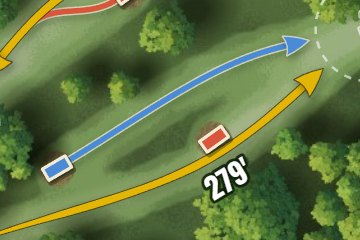
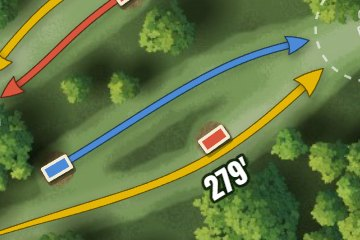
After a second critique: a line joins another only where it comes in along it, else it goes its own way to the basket; no merge bends; short last legs run on to the basket; labels keep off arrowheads
Each painted line's edge is a darker shade of its own color. An open arrowhead
is thinner. A line with no arrowhead ends round. The panel lists what is drawn
first, then weight and arrowheads; Bends is Smoothed or As plotted.

Changed region(s): [[0.1833, 0.1458, 0.8556, 0.7], [0.0, 0.0, 0.3361, 0.4083]]

diff --git a/src/lib/mapSvg.ts b/src/lib/mapSvg.ts
@@ -622,14 +622,18 @@ export const renderMapLayers = (doc: CourseDoc, view: MapView, layers: MapLayers
   const drawnLines: { own: string; path: P[]; half: number; arrow?: boolean }[] = [];
   // (every line's width and its arrowhead's size, times the look's own)
   const weight = s.lineWeight ?? 1, headSize = s.arrowSize ?? 1, classicLook = look === "classic";
-  // (how light a color is, 0 to 1: a line's edge is dark round a light line and light round a dark one)
-  const lightness = (hex: string) => {
+  // (a painted line's edge: a darker shade of its own color, the same for every line; Classic's by
+  // hand as it was)
+  const darker = (hex: string, by: number) => {
     const m = /^#([0-9a-f]{6})$/i.exec(hex);
-    if (!m) return 1;
-    const v = parseInt(m[1], 16);
-    return (0.2126 * (v >> 16) + 0.7152 * ((v >> 8) & 255) + 0.0722 * (v & 255)) / 255;
+    if (!m) return KEY;
+    const v = parseInt(m[1], 16), c = (x: number) => Math.round(x * by).toString(16).padStart(2, "0");
+    return `#${c(v >> 16)}${c((v >> 8) & 255)}${c(v & 255)}`;
   };
-  const softEdge = (color: string) => (classicLook || lightness(color) > 0.55 ? { c: KEY, o: 0.7, w: 0.9 } : { c: CREAM, o: 0.72, w: 1.2 });
+  const softEdge = (color: string) => (classicLook ? { c: KEY, o: 0.7, w: 0.9 } : { c: darker(color, 0.4), o: 0.9, w: 1 });
+  const turn = (from: number, to: number) => Math.atan2(Math.sin(to - from), Math.cos(to - from));
+  /** Where the painted looks' arrowheads lie (plan ft), for the labels to keep off. */
+  const headsAt: { p: P; r: number }[] = [];
   /** A line's bends swept wider, as a disc flies them: smoothed along its length (about 14 ft each
    * way), every spot kept within `most` ft of where it was plotted, so it stays on its fairway;
    * its ends where they were. In feet, so the same at every scale. */
@@ -663,11 +667,18 @@ export const renderMapLayers = (doc: CourseDoc, view: MapView, layers: MapLayers
     };
     let seed = 0;
     // A painted stroke: a ribbon narrow at the tee, full along, the brush's width wavering a little
-    const ribbon = (line: P[], w: number) => {
+    const ribbon = (line: P[], w: number, round = false) => {
       const d = densify(line, px(2.5)), len = pathLength(d) || 1, s0 = ++seed * 1.7;
       const wAt = (t: number) => w * (0.45 + 0.55 * Math.min(1, t / 0.2)) * (1 + 0.05 * Math.sin((t * len) / px(7) + s0) + 0.035 * Math.sin((t * len) / px(19) + s0 * 2));
       const L = offsetPath(d, t => wAt(t) / 2), R = offsetPath(d, t => -wAt(t) / 2).reverse();
-      return `M${[...L, ...R].map(q => `${n(q.x)} ${n(q.y)}`).join("L")}Z`;
+      // (round at its far end: from its one side round the front to the other)
+      const cap: P[] = [];
+      if (round && d.length > 1) {
+        const E = d[d.length - 1], q = d[d.length - 2], ahead = Math.atan2(E.y - q.y, E.x - q.x), l = L[L.length - 1];
+        const a0 = Math.atan2(l.y - E.y, l.x - E.x), r = dist(l, E), half = turn(a0, ahead);
+        for (let i = 1; i < 8; i++) cap.push({ x: E.x + Math.cos(a0 + (half * 2 * i) / 8) * r, y: E.y + Math.sin(a0 + (half * 2 * i) / 8) * r });
+      }
+      return `M${[...L, ...cap, ...R].map(q => `${n(q.x)} ${n(q.y)}`).join("L")}Z`;
     };
     // (a soft shadow under a shape or a stroke, falling as the trees' do)
     const under = (dd: string, w?: number) =>
@@ -692,27 +703,14 @@ export const renderMapLayers = (doc: CourseDoc, view: MapView, layers: MapLayers
     // (where a line stops, from the basket, in the painted looks: every line that comes to the
     // basket, the main one and another tee's own alike, at its putting circle, or by the basket
     // itself where the map says so. Classic's own lines as they did: clear of the main arrowhead)
-    const stop = s.lineEnd === "basket" ? Math.max(8 / k, 6) : short;
-    const ownEnd = classicLook ? Math.max(short, 22 / k) + 8 / k : stop;
+    const byBasket = Math.max(8 / k, 6), stop = s.lineEnd === "basket" ? byBasket : short;
+    // (hole by hole: a hole whose last leg is too short for an arrowhead at the circle runs its lines on to the basket)
+    let atBasket = s.lineEnd === "basket";
+    let ownEnd = classicLook ? Math.max(short, 22 / k) + 8 / k : stop;
     // (how far apart two lines come to the circle for each to have its own arrowhead)
-    const headRoom = (9.5 / k) * Math.sqrt(weight) * headSize * 1.3;
+    const headRoom = (9.5 / k) * Math.sqrt(weight) * headSize * 1.05;
     /** Where a line toward the basket comes to where the lines stop. */
     const arrives = (path: P[]) => pointAlong(path, Math.max(0, pathLength(path) - ownEnd)).point;
-    /** Another tee's line that would come to the circle beside `host`, its arrowhead on that one's:
-     * it joins `host` a little before the circle instead, in one bend, as it would a few steps on. */
-    const mergeBefore = (truth: P[], host: P[], gap: number): { path: P[]; rest: P[] } => {
-      const hostLen = pathLength(host), len = pathLength(truth);
-      const hostAt = Math.max(hostLen * 0.3, hostLen - ownEnd - headRoom * 1.6 - px(6));
-      const lead = Math.max(px(30), Math.min(px(90), gap * 6));
-      const from = Math.max(0, len - (hostLen - hostAt) - lead);
-      const A = pointAlong(truth, from), B = pointAlong(host, hostAt), a = A.point, b = B.point, h = dist(a, b) * 0.4;
-      const c1 = { x: a.x + Math.cos(A.angle) * h, y: a.y + Math.sin(A.angle) * h }, c2 = { x: b.x - Math.cos(B.angle) * h, y: b.y - Math.sin(B.angle) * h };
-      const bend = Array.from({ length: 32 }, (_, i) => {
-        const t = (i + 1) / 32, u = 1 - t;
-        return { x: u * u * u * a.x + 3 * u * u * t * c1.x + 3 * u * t * t * c2.x + t * t * t * b.x, y: u * u * u * a.y + 3 * u * u * t * c1.y + 3 * u * t * t * c2.y + t * t * t * b.y };
-      });
-      return { path: [...(from > 0 ? trimPath(truth, 0, from) : [a]), ...bend], rest: trimPath(host, hostAt, hostLen) };
-    };
     // A line of its own, drawn to end aimed at the basket: where the line it plays still bends
     // inside the putting circle, its last stretch is bent to come in aimed at the basket, so its
     // arrowhead at the circle points at it.
@@ -724,10 +722,13 @@ export const renderMapLayers = (doc: CourseDoc, view: MapView, layers: MapLayers
       let at = len - ownEnd;
       while (at > len * 0.5 && dist(pointAlong(truth, at).point, basket) < ownEnd) at -= 1 / k;
       if (at < len * 0.5) return truth;
-      const E0 = pointAlong(truth, at), E = to ? { point: to, angle: E0.angle } : E0, want = Math.atan2(basket.y - E.point.y, basket.x - E.point.x);
-      if (!to && Math.abs(Math.atan2(Math.sin(E.angle - want), Math.cos(E.angle - want))) < 0.12) return truth;
+      const E0 = pointAlong(truth, at), E = to ? { point: to, angle: E0.angle } : E0, aim = Math.atan2(basket.y - E.point.y, basket.x - E.point.x);
+      if (!to && Math.abs(Math.atan2(Math.sin(E.angle - aim), Math.cos(E.angle - aim))) < 0.12) return truth;
       // (the bend ends an arrowhead's length before the circle, so the arrowhead lies on a straight run at the basket)
-      const back = Math.min(at * 0.6, px(70)), A = pointAlong(truth, at - back), run = 14 / k;
+      // (fanned out: from farther back, and coming in halfway between its own way there and straight
+      // at the basket, so it's one easy curve, never an S)
+      const back = to ? Math.min(at * 0.85, px(120)) : Math.min(at * 0.6, px(70)), A = pointAlong(truth, at - back), run = to ? 0 : 14 / k;
+      const want = to ? (c => c + turn(c, aim) * 0.5)(Math.atan2(E.point.y - A.point.y, E.point.x - A.point.x)) : aim;
       const a = A.point, b = { x: E.point.x - Math.cos(want) * run, y: E.point.y - Math.sin(want) * run }, h = dist(a, b) * 0.4;
       const c1 = { x: a.x + Math.cos(A.angle) * h, y: a.y + Math.sin(A.angle) * h }, c2 = { x: b.x - Math.cos(want) * h, y: b.y - Math.sin(want) * h };
       const bend = Array.from({ length: 24 }, (_, i) => {
@@ -738,7 +739,8 @@ export const renderMapLayers = (doc: CourseDoc, view: MapView, layers: MapLayers
     };
     /** One line, every setting of it: `main` with its arrowhead and the map's own trims. Its shadow
      * and outline into `unders`, its color into `fills`. */
-    const drawLine = (line: P[], ls0: ReturnType<typeof lineStyleOf>, main: boolean, o: number, basket: P, alone = false) => {
+    // (`tuck`: its end under another line's arrowhead, with none of its own)
+    const drawLine = (line: P[], ls0: ReturnType<typeof lineStyleOf>, main: boolean, o: number, basket: P, alone = false, tuck = false) => {
       let ls = ls0;
       const classic = look === "classic";
       const W = px((main ? (classic ? 2.4 : 3.2) : classic ? 2 : 2.2) * ls.width * weight);
@@ -751,12 +753,14 @@ export const renderMapLayers = (doc: CourseDoc, view: MapView, layers: MapLayers
       const toBasket = main || alone || (!classic && s.linesMeet === "alongside" && dist(line[line.length - 1], basket) < short + px(4));
       // (a line of its own stops at the putting circle, clear of the main line's arrowhead; `aimed` has it come in aimed at the basket)
       // (the painted looks' arrowhead goes with its line's width, a little bigger for it on a thin line)
-      const al = (classic ? (9 / k) * Math.sqrt(ls.width * weight) * (alone ? 0.65 : 1) : (9.5 / k) * Math.sqrt(ls.width * weight) * (main ? 1 : 0.86)) * headSize;
+      const al = (classic ? (9 / k) * Math.sqrt(ls.width * weight) * (alone ? 0.65 : 1) : (9.5 / k) * Math.sqrt(ls.width * weight) * (main ? 1 : 0.78)) * headSize;
       const edge = Math.max(len * 0.5, len - ownEnd);
       // (the classic arrowhead reaches past the spot it's set at: set back, so its tip is where the painted one's is)
-      const tipAt = classic ? (main ? len - Math.max(12 / k, 6) : alone ? edge - al * 0.6 : len) : toBasket ? edge : len;
-      // (how far short of its tip the line itself ends, under its arrowhead)
-      const under0 = headLook === "open" ? 0 : headLook === "triangle" ? al * 0.5 : al * 0.9;
+      // (the painted looks: at where the hole's lines stop; with no arrowhead, right at the basket's mark
+      // where they run on to it; tucked under another's arrowhead, a little back under its wide part)
+      const tipAt = classic ? (main ? len - Math.max(12 / k, 6) : alone ? edge - al * 0.6 : len) : !toBasket ? len : tuck && !atBasket ? edge - al * 0.6 : atBasket && !ls.arrow ? Math.max(len * 0.5, len - 4 / k) : edge;
+      // (how far short of its tip the line itself ends, under its arrowhead; an open one's tip a little short of the circle)
+      const under0 = headLook === "open" ? 2 / k + W * 0.3 : headLook === "triangle" ? al * 0.5 : al * 0.9;
       const body = main ? trimPath(line, 6 / k, classic ? len - Math.max(2.2 / k * 6, 8) : ls.arrow ? tipAt - under0 : tipAt) : toBasket ? trimPath(line, 0, ls.arrow ? tipAt - (classic ? 1.2 / k : under0) : tipAt) : line;
       if (body.length < 2) return;
       const dd = pathD(densify(body, px(3)));
@@ -778,17 +782,19 @@ export const renderMapLayers = (doc: CourseDoc, view: MapView, layers: MapLayers
         if (!painted) stroke(soft.c, W + px(soft.w), soft.o, dash);
       } else if (ls.outline === "dark") stroke(pal.lineCasing, W + px(main ? 2.2 : 1.8), 1, dash);
       if (!whole) { sink.push(`</g>`); sink = fills; sink.push(`<g opacity="${n(o * ls.opacity)}">`); }
-      if (painted) sink.push(`<path d="${ribbon(body, W)}" fill="${ls.color}"${ls.outline === "soft" ? ` stroke="${soft.c}" stroke-opacity="${soft.o}" stroke-width="${n(px(soft.w * 0.45))}" stroke-linejoin="round"` : ""}/>`);
+      if (painted) sink.push(`<path d="${ribbon(body, W, !ls.arrow)}" fill="${ls.color}"${ls.outline === "soft" ? ` stroke="${soft.c}" stroke-opacity="${soft.o}" stroke-width="${n(px(soft.w * 0.45))}" stroke-linejoin="round"` : ""}/>`);
       else stroke(ls.color, W, 1, dash);
+      // (the labels keep off a painted look's arrowhead)
+      if (ls.arrow && !classic) headsAt.push({ p: pointAlong(line, Math.max(0, tipAt - al * 0.45)).point, r: al * 0.7 });
       if (ls.arrow) {
         if (headLook === "open") {
           // (two strokes from the tip, as a line arrow)
-          const end = pointAlong(line, Math.max(0, tipAt)), tip = end.point, a = end.angle;
+          const end = pointAlong(line, Math.max(0, tipAt - 2 / k)), tip = end.point, a = end.angle, hw = W * 0.75;
           const wing = (sg: number) => ({ x: tip.x - Math.cos(a - 0.52 * sg) * al * 1.05, y: tip.y - Math.sin(a - 0.52 * sg) * al * 1.05 });
           const l = wing(1), r = wing(-1), hd = `M${n(l.x)} ${n(l.y)}L${n(tip.x)} ${n(tip.y)}L${n(r.x)} ${n(r.y)}`;
-          if (ls.shadow) under(hd, W + px(1.8));
-          if (ls.outline !== "none") sink.push(`<path d="${hd}" fill="none" stroke="${ls.outline === "dark" ? pal.lineCasing : soft.c}" stroke-opacity="${ls.outline === "dark" ? 1 : soft.o}" stroke-width="${n(W + px(ls.outline === "dark" ? 2 : soft.w))}" stroke-linecap="round" stroke-linejoin="round"/>`);
-          sink.push(`<path d="${hd}" fill="none" stroke="${ls.color}" stroke-width="${n(W)}" stroke-linecap="round" stroke-linejoin="round"/>`);
+          if (ls.shadow) under(hd, hw + px(1.8));
+          if (ls.outline !== "none") sink.push(`<path d="${hd}" fill="none" stroke="${ls.outline === "dark" ? pal.lineCasing : soft.c}" stroke-opacity="${ls.outline === "dark" ? 1 : soft.o}" stroke-width="${n(hw + px(ls.outline === "dark" ? 2 : soft.w))}" stroke-linecap="round" stroke-linejoin="round"/>`);
+          sink.push(`<path d="${hd}" fill="none" stroke="${ls.color}" stroke-width="${n(hw)}" stroke-linecap="round" stroke-linejoin="round"/>`);
         } else if (headLook === "triangle") {
           // (Classic's reaches past the spot it's set at; in the painted looks its tip is where the line stops)
           const end = pointAlong(line, Math.max(0, classic ? tipAt : tipAt - al * 0.6)), tip = end.point, a = end.angle;
@@ -798,7 +804,7 @@ export const renderMapLayers = (doc: CourseDoc, view: MapView, layers: MapLayers
             { x: tip.x - Math.cos(a + 0.45) * al, y: tip.y - Math.sin(a + 0.45) * al }
           ];
           if (ls.shadow && !classic) under(`M${pts(head).split(" ").join("L")}Z`);
-          sink.push(`<polygon points="${pts(head)}" fill="${ls.color}"${ls.outline === "none" ? "" : ls.outline === "soft" ? ` stroke="${soft.c}" stroke-opacity="${soft.o}" stroke-width="${n(px(soft.w * 0.5))}" stroke-linejoin="round"` : ` stroke="${pal.lineCasing}" stroke-width="${n(px(1))}"`}/>`);
+          sink.push(`<polygon points="${pts(head)}" fill="${ls.color}"${ls.outline === "none" ? "" : ls.outline === "soft" && !classic ? ` stroke="${soft.c}" stroke-opacity="${soft.o}" stroke-width="${n(px(soft.w * 0.5))}" stroke-linejoin="round"` : ` stroke="${pal.lineCasing}" stroke-width="${n(px(1))}"`}/>`);
         } else leaf(line, ls.color, al, tipAt, ls);
       }
       sink.push(`</g>`);
@@ -863,6 +869,12 @@ export const renderMapLayers = (doc: CourseDoc, view: MapView, layers: MapLayers
       const A = truth[a], n1 = truth[Math.min(last, a + 1)], n0 = truth[Math.max(0, a - 1)];
       const ta0 = { x: n1.x - n0.x, y: n1.y - n0.y }, tl = Math.hypot(ta0.x, ta0.y) || 1, ta = { x: ta0.x / tl, y: ta0.y / tl };
       const tb = { x: Math.cos(B.angle), y: Math.sin(B.angle) }, b = B.point, h = dist(A, b) * 0.4;
+      // (the painted looks: only where it comes in along the line, within 22 degrees of its own way and
+      // of the line's; a line that would have to turn to it goes its own way to the basket, as it plays)
+      if (!classicLook) {
+        const chord = Math.atan2(b.y - A.y, b.x - A.x);
+        if (Math.abs(turn(Math.atan2(ta.y, ta.x), chord)) > 0.38 || Math.abs(turn(chord, B.angle)) > 0.38) return { path: truth, alone: true };
+      }
       const c1 = { x: A.x + ta.x * h, y: A.y + ta.y * h }, c2 = { x: b.x - tb.x * h, y: b.y - tb.y * h };
       const bend = Array.from({ length: 32 }, (_, i) => {
         const t = (i + 1) / 32, u = 1 - t;
@@ -878,13 +890,23 @@ export const renderMapLayers = (doc: CourseDoc, view: MapView, layers: MapLayers
       const hole = doc.holes.find(h => h.id === st.holeId)!;
       const o = dim(st.holeId);
       const basket = st.line[st.line.length - 1];
+      const mainTee = doc.items.find(i => i.id === st.teeId) as TeeItem | undefined;
+      const mainLs = lineStyleOf(s, mainTee?.level ?? "blue", true, multi);
       // (in the painted looks the main line too stops where the lines stop, come in aimed at the basket)
       // (and its bends swept wide, within a third of its fairway's width of where they were plotted)
       const sweep = classicLook || s.lineBends === "plotted" ? 0 : Math.max(5, Math.min(12, (hole.fairway ? hole.fairwayWidth : 30) * 0.3));
-      const plotted = smoothPath(st.line, 12);
-      const line = classicLook ? plotted : aimed(swept(plotted, sweep), basket);
-      const mainTee = doc.items.find(i => i.id === st.teeId) as TeeItem | undefined;
-      const mainLs = lineStyleOf(s, mainTee?.level ?? "blue", true, multi);
+      const plotted = smoothPath(st.line, 12), bent = classicLook ? plotted : swept(plotted, sweep);
+      atBasket = s.lineEnd === "basket";
+      if (!classicLook) {
+        ownEnd = stop;
+        // (its last leg, from where the line last turns to the circle, too short to hold an arrowhead:
+        // this hole's lines run on to the basket, where the arrowhead has the room)
+        const L = pathLength(bent), last = pointAlong(bent, Math.max(0, L - 1 / k)).angle, headLen = (9.5 / k) * Math.sqrt(mainLs.width * weight) * headSize;
+        let back = ownEnd;
+        while (back < L * 0.6 && Math.abs(turn(pointAlong(bent, L - back).angle, last)) < 0.5) back += 2 / k;
+        if (!atBasket && back < L * 0.6 && back - ownEnd < headLen * 2.2) { atBasket = true; ownEnd = byBasket; }
+      }
+      const line = classicLook ? plotted : aimed(bent, basket);
       unders = []; fills = [];
       const mainW = px((look === "classic" ? 2.4 : 3.2) * mainLs.width * weight);
       if (!mainTee?.noLine) drawnLines.push({ own: `dist:${st.holeId}`, path: line, half: mainW / 2, arrow: mainLs.arrow });
@@ -931,20 +953,19 @@ export const renderMapLayers = (doc: CourseDoc, view: MapView, layers: MapLayers
           alone = j.alone;
           const mine = alone ? swept(j.path, sweep) : j.path;
           along = alone ? aimed(mine, basket) : mine;
-          let rest = j.rest;
+          const rest = j.rest;
           // (its own way to the basket, but coming to the circle beside a line already there, the two
           // arrowheads on each other: it joins that line just before the circle)
           // Where the lines run on to the basket they meet there, and only the first has the arrowhead.
-          // Nearly on that line (a few px): it joins it just before the circle. Otherwise it comes
-          // to the circle a little round from it, each with room for its own arrowhead.
+          // Coming to the circle where another does (within half an arrowhead): its end tucked under
+          // that one's arrowhead. Otherwise a little round from it, each with room for its own.
           if (alone && !classicLook) {
             const E = arrives(along), by = trunks.map(t => ({ t, at: arrives(t), d: dist(arrives(t), E) })).sort((p, q) => p.d - q.d)[0];
             if (by && by.d < headRoom) {
-              if (s.lineEnd === "basket") bare = true;
-              else if (by.d < px(8)) {
-                const m = mergeBefore(mine, by.t, by.d);
-                along = m.path; rest = m.rest; alone = false;
-                joins.push(along[along.length - 1]);
+              if (atBasket) bare = true;
+              else if (by.d < headRoom * 0.55) {
+                // (it comes in where that line does: its end under that line's arrowhead, on its own way there)
+                bare = true;
               } else {
                 const a0 = Math.atan2(E.y - basket.y, E.x - basket.x), ah = Math.atan2(by.at.y - basket.y, by.at.x - basket.x);
                 const off = Math.atan2(Math.sin(a0 - ah), Math.cos(a0 - ah)), want = 2 * Math.asin(Math.min(0.7, headRoom / (2 * ownEnd)));
@@ -959,7 +980,7 @@ export const renderMapLayers = (doc: CourseDoc, view: MapView, layers: MapLayers
         drawnLines.push({ own: `dist:${st.holeId}:${tee.id}`, path: along, half: px((look === "classic" ? 2 : 2.2) * ls.width * weight) / 2, arrow: alone && !bare && ls.arrow });
         // (its own way to the basket: its own arrowhead; one that joins a line has none, unless asked for)
         const joined = { ...ls, arrow: s.lineStyles?.[tee.level]?.arrow === true };
-        if (alone) drawLine(along, bare ? { ...ls, arrow: false } : ls, false, o, basket, true);
+        if (alone) drawLine(along, bare ? { ...ls, arrow: false } : ls, false, o, basket, true, bare);
         else if (look === "classic" && !s.lineStyles?.[tee.level] && s.linesMeet !== "alongside" && weight === 1) {
           const c = TEE_LEVELS[tee.level].color === "#f8fafc" ? "#eef0f2" : TEE_LEVELS[tee.level].color;
           (o < 1 ? fills : unders).push(`<path d="${pathD(along)}" fill="none" stroke="${pal.lineCasing}" stroke-width="${n(px(3.8))}" stroke-linecap="round" stroke-linejoin="round" opacity="${o}"/>`);
@@ -1040,6 +1061,7 @@ export const renderMapLayers = (doc: CourseDoc, view: MapView, layers: MapLayers
   // circles in the map's pixels (`thin`: a ring or a path, which a label that has to move keeps off;
   // one lying on it where it always went stays, as on maps made before):
   const obs: { x: number; y: number; r: number; of?: string; thin?: boolean }[] = [];
+  for (const h of headsAt) { const q = toScreen(h.p); obs.push({ x: q.x, y: q.y, r: h.r * k }); }
   for (const d of drawnLines) {
     // (wider at its arrowhead)
     const dense = densify(d.path, 3 / k), head = 4.5 * Math.max(1, ts * 0.8);
@@ -1047,7 +1069,7 @@ export const renderMapLayers = (doc: CourseDoc, view: MapView, layers: MapLayers
     dense.forEach((q, i) => {
       if (i) left -= dist(dense[i - 1], q);
       const p = toScreen(q);
-      obs.push({ x: p.x, y: p.y, r: d.arrow && left < 24 / k ? Math.max(d.half * k, head) : d.half * k, of: d.own });
+      obs.push({ x: p.x, y: p.y, r: classicLook && d.arrow && left < 24 / k ? Math.max(d.half * k, head) : d.half * k, of: d.own });
     });
   }
   for (const tee of items.filter(i => i.type === "tee") as TeeItem[]) {

diff --git a/src/lib/guide.ts b/src/lib/guide.ts
@@ -617,8 +617,8 @@ export const TOPICS: Topic[] = [
   },
   {
     id: "drawn-on-map", section: "map", title: "Lines",
-    body: "Extra lines on the printed map: Throw lines, the Distances on them, and the Putting circle, the 10 m (33 ft) circle around each basket. These only change the printed map. The map you work on stays as it is. How the hills are drawn, and contour lines, are under Elevation in the map style.\n\nLine look picks how the throw lines are drawn. Painted is warm cream with soft shadows, a lane of light along each line and earthy tee colors, so the lines belong to the painting and still stand out. Trail is the same with the other tees' lines in dashes. Classic is white lines with dark outlines and pure tee colors. A new course starts Painted. One made before keeps Classic until you pick another.\n\nIn Painted and Trail every line that reaches the basket stops at its putting circle, aimed at the basket, with a small arrowhead. Two lines that come to the circle side by side fan out a little, so each arrowhead has room. A line that's nearly on top of another joins it just before the circle. A dark line gets a light edge and a light line a dark one, so both read over the trees.\n\nThe next settings are for every line at once. Line weight makes them all thicker or thinner. Arrowheads is Leaf, Triangle, Open or None, and Arrowhead size makes them bigger or smaller. Many printed tee signs have no arrowheads: pick None and each line ends plain. Lines end is At the putting circle or At the basket. Bends is Sweeping, which draws each bend wide, the way a disc flies it, while staying on the fairway; As plotted takes the line through each bend exactly where you put it. Lines end and Bends are for Painted and Trail; Classic draws its lines as it always did.\n\nWith more than one layout, each layout's line is its own tee color, the main one too. Main layout picks the one the map draws on top, with the distances. It's the map's own, so picking a layout in Design doesn't change it.\n\nOther tees' lines picks how each other tee's line ends. Join the main line bends it onto the main line where its own line runs into it, as a side road joins a road. A tee with its own way to the basket keeps it, with its own arrowhead. Run beside it runs each line beside the main one to the basket.\n\nDistances and hole numbers keep clear by themselves. A distance sits by its line, a little past the middle. If a tee pad, another line, a basket or another label is there, it moves to the line's other side or along it. A hole number sits beside its tee and moves to another side when something's in the way, staying nearer its own tee than any other hole's. You can still drag one on the course map, and it stays where you put it.\n\nEach tee's line lists a line for each tee color on the course, named by its layout. The eye hides a line or brings it back. Open one to set its Color, its Line (Solid, Dashed or Dotted), Width, Opacity, Outline (Soft, Dark or None), Shadow and Arrowhead, and, for the other tees, Distance: its own length along it, where the map shows Distances. Another tee's line has an arrowhead only where it reaches the basket by itself. To leave one tee's line off a single hole, pick that tee in Design and turn off Throw line on the course map (on a phone, Map line in the tee's bar). A changed line has a dot, and Reset puts the look's own back. A white dashed or dotted line can look like a footpath, so a tee color reads better. The other tees' lines join outside the putting circle, so only arrowheads lie inside it. Tee signs and hole pages draw their lines the same way, and their tee colors match.",
-    words: "lines drawn on the map throw lines distances putting circle line look painted trail classic main layout each line color dashed dotted width opacity transparency outline shadow arrowhead arrowheads arrow size leaf triangle open none line weight thickness thicker thinner lines end at the basket bends sweeping as plotted curve hide line one hole alongside join",
+    body: "Extra lines on the printed map: Throw lines, the Distances on them, and the Putting circle, the 10 m (33 ft) circle around each basket. These only change the printed map. The map you work on stays as it is. How the hills are drawn, and contour lines, are under Elevation in the map style.\n\nLine look picks how the throw lines are drawn. Painted is warm cream with soft shadows, a lane of light along each line and earthy tee colors, so the lines belong to the painting and still stand out. Trail is the same with the other tees' lines in dashes. Classic is white lines with dark outlines and pure tee colors. A new course starts Painted. One made before keeps Classic until you pick another.\n\nIn Painted and Trail every line that reaches the basket stops at its putting circle, aimed at the basket, with a small arrowhead. Two lines that come to the circle side by side fan out a little, so each arrowhead has room. Where two come in at the same spot, the second ends under the first one's arrowhead. Another tee's line joins a line only where it comes in along it; one that would have to turn to it goes its own way to the basket, as that tee plays it. Each line's edge is a darker shade of its own color.\n\nThe next settings are for every line at once. Line weight makes them all thicker or thinner. Arrowheads is Leaf, Triangle, Open or None, and Arrowhead size makes them bigger or smaller. Many printed tee signs have no arrowheads: pick None and each line ends plain. Lines end is At the putting circle or At the basket. A hole whose last leg is too short to hold an arrowhead at the circle runs its lines on to the basket either way. Bends is Smoothed, which draws each bend wide, the way a disc flies it, while staying on the fairway; As plotted takes the line through each bend exactly where you put it. Lines end and Bends are for Painted and Trail; Classic draws its lines as it always did.\n\nWith more than one layout, each layout's line is its own tee color, the main one too. Main layout picks the one the map draws on top, with the distances. It's the map's own, so picking a layout in Design doesn't change it.\n\nOther tees' lines picks how each other tee's line ends. Join the main line bends it onto the main line where its own line runs into it, as a side road joins a road. A tee with its own way to the basket keeps it, with its own arrowhead. Run beside it runs each line beside the main one to the basket.\n\nDistances and hole numbers keep clear by themselves. A distance sits by its line, a little past the middle. If a tee pad, another line, a basket or another label is there, it moves to the line's other side or along it. A hole number sits beside its tee and moves to another side when something's in the way, staying nearer its own tee than any other hole's. You can still drag one on the course map, and it stays where you put it.\n\nEach tee's line lists a line for each tee color on the course, named by its layout. The eye hides a line or brings it back. Open one to set its Color, its Line (Solid, Dashed or Dotted), Width, Opacity, Outline (Soft, Dark or None), Shadow and Arrowhead, and, for the other tees, Distance: its own length along it, where the map shows Distances. Another tee's line has an arrowhead only where it reaches the basket by itself. To leave one tee's line off a single hole, pick that tee in Design and turn off Throw line on the course map (on a phone, Map line in the tee's bar). A changed line has a dot, and Reset puts the look's own back. A white dashed or dotted line can look like a footpath, so a tee color reads better. The other tees' lines join outside the putting circle, so only arrowheads lie inside it. Tee signs and hole pages draw their lines the same way, and their tee colors match.",
+    words: "lines drawn on the map throw lines distances putting circle line look painted trail classic main layout each line color dashed dotted width opacity transparency outline shadow arrowhead arrowheads arrow size leaf triangle open none line weight thickness thicker thinner lines end at the basket bends smoothed sweeping as plotted curve hide line one hole alongside join",
     path: "Map › Course map › Lines",
     where: { step: "map", tab: "map", find: "drawn-on-map" }
   },

diff --git a/src/components/MapLines.tsx b/src/components/MapLines.tsx
@@ -70,27 +70,6 @@ export function MapLines() {
     <div className="mt-3" data-testid="map-lines">
       <div className="text-xs touch:text-[13px] text-zinc-400 mb-1.5">Line look</div>
       <Thumbs label="Line look" testid="line-look" cols={3} items={LOOKS.map(l => ({ id: l.id, label: l.label, img: `${base}parts/lines-${l.id}.jpg`, on: look === l.id, pick: () => setStyle({ lineLook: l.id === "classic" ? undefined : l.id }) }))} />
-      {/* (every line at once: its weight, its arrowhead, where it stops and how its bends are drawn) */}
-      <div data-testid="lines-all">
-        <StyleSlider k="lineWeight" label="Line weight" min={0.6} max={1.8} step={0.05} value={s.lineWeight ?? 1} format={v => `${Math.round(v * 100)}%`} live />
-        <Field label="Arrowheads">
-          <Segmented label="Arrowheads" value={s.arrowLook ?? (look === "classic" ? "triangle" : "leaf")} onChange={v => setStyle({ arrowLook: v === (look === "classic" ? "triangle" : "leaf") ? undefined : v })}
-            options={[{ value: "leaf", label: "Leaf", title: "A painted head, shaped like a leaf" }, { value: "triangle", label: "Triangle", title: "A plain filled head" }, { value: "open", label: "Open", title: "Two strokes from the tip" }, { value: "none", label: "None", title: "No arrowheads: each line ends plain" }]} />
-        </Field>
-        {s.arrowLook !== "none" && <StyleSlider k="arrowSize" label="Arrowhead size" min={0.5} max={2} step={0.05} value={s.arrowSize ?? 1} format={v => `${Math.round(v * 100)}%`} live />}
-        {look !== "classic" && (
-          <>
-            <Field label="Lines end">
-              <Segmented label="Lines end" value={s.lineEnd ?? "circle"} onChange={v => setStyle({ lineEnd: v === "basket" ? "basket" : undefined })}
-                options={[{ value: "circle", label: "At the putting circle", title: "Every line stops at the basket's circle, aimed at the basket" }, { value: "basket", label: "At the basket", title: "Every line runs on to the basket" }]} />
-            </Field>
-            <Field label="Bends">
-              <Segmented label="Line bends" value={s.lineBends ?? "swept"} onChange={v => setStyle({ lineBends: v === "plotted" ? "plotted" : undefined })}
-                options={[{ value: "swept", label: "Sweeping", title: "Bends drawn wide, as a disc flies them, staying on the fairway" }, { value: "plotted", label: "As plotted", title: "Through each bend exactly where it was put" }]} />
-            </Field>
-          </>
-        )}
-      </div>
       {doc.layouts.length > 1 && (
         <Field label="Main layout" hint="Drawn on top, with the distances. The other tees' lines join it.">
           <ChipPick label="Main layout" testid="map-layout" value={mapLayout.id} onChange={v => setStyle({ mapLayout: v })}
@@ -103,6 +82,27 @@ export function MapLines() {
             options={[{ value: "join", label: "Join the main line", title: "Each stops where it meets the main line" }, { value: "alongside", label: "Run beside it", title: "Each runs beside the main line to the basket" }]} />
         </Field>
       )}
+      {/* (every line at once: where it stops and how its bends are drawn, then its weight and its arrowhead) */}
+      <div data-testid="lines-all">
+        {look !== "classic" && (
+          <>
+            <Field label="Lines end">
+              <Segmented label="Lines end" value={s.lineEnd ?? "circle"} onChange={v => setStyle({ lineEnd: v === "basket" ? "basket" : undefined })}
+                options={[{ value: "circle", label: "At the putting circle", title: "Every line stops at the basket's circle, aimed at the basket" }, { value: "basket", label: "At the basket", title: "Every line runs on to the basket" }]} />
+            </Field>
+            <Field label="Bends">
+              <Segmented label="Line bends" value={s.lineBends ?? "swept"} onChange={v => setStyle({ lineBends: v === "plotted" ? "plotted" : undefined })}
+                options={[{ value: "swept", label: "Smoothed", title: "Bends drawn wide, as a disc flies them, staying on the fairway" }, { value: "plotted", label: "As plotted", title: "Through each bend exactly where it was put" }]} />
+            </Field>
+          </>
+        )}
+        <StyleSlider k="lineWeight" label="Line weight" min={0.6} max={1.8} step={0.05} value={s.lineWeight ?? 1} format={v => `${Math.round(v * 100)}%`} live />
+        <Field label="Arrowheads">
+          <Segmented label="Arrowheads" value={s.arrowLook ?? (look === "classic" ? "triangle" : "leaf")} onChange={v => setStyle({ arrowLook: v === (look === "classic" ? "triangle" : "leaf") ? undefined : v })}
+            options={[{ value: "leaf", label: "Leaf", title: "A painted head, shaped like a leaf" }, { value: "triangle", label: "Triangle", title: "A plain filled head" }, { value: "open", label: "Open", title: "Two strokes from the tip" }, { value: "none", label: "None", title: "No arrowheads: each line ends plain" }]} />
+        </Field>
+        {s.arrowLook !== "none" && <StyleSlider k="arrowSize" label="Arrowhead size" min={0.5} max={2} step={0.05} value={s.arrowSize ?? 1} format={v => `${Math.round(v * 100)}%`} live />}
+      </div>
       <div className="text-xs touch:text-[13px] text-zinc-400 mb-1.5">Each tee's line</div>
       <div className="rounded-[16px] bg-white/[0.06] overflow-hidden mb-3">
         {levels.map(l => {

diff --git a/tests/e2e/design.spec.ts b/tests/e2e/design.spec.ts
@@ -473,7 +473,7 @@ test("the Lines tool: Line look, each tee's line set its own way, and where line
   await all.getByRole("radio", { name: "As plotted" }).click();
   await expect.poll(async () => { const s = await style(); return [s.lineEnd, s.lineBends]; }).toEqual(["basket", "plotted"]);
   await all.getByRole("radio", { name: "At the putting circle" }).click();
-  await all.getByRole("radio", { name: "Sweeping" }).click();
+  await all.getByRole("radio", { name: "Smoothed" }).click();
   await expect.poll(async () => { const s = await style(); return [s.lineEnd, s.lineBends]; }).toEqual([undefined, undefined]);
   // (Classic draws its lines as it always did: no Lines end or Bends for it)
   await lines.getByTestId("line-look-classic").click();
